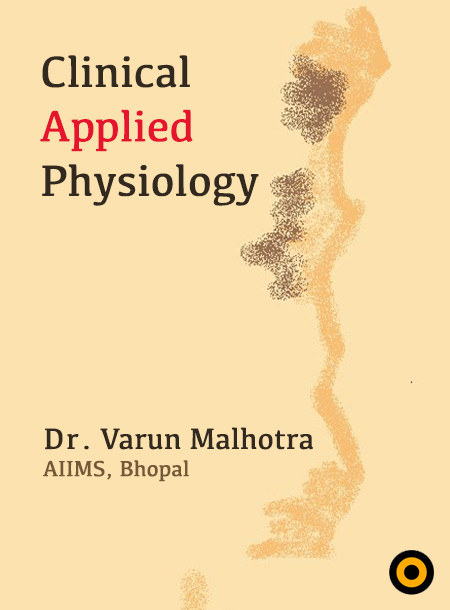
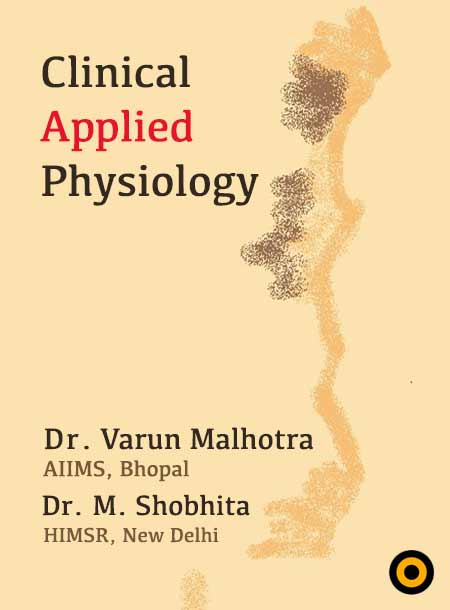
Credits, synopsis and cover fixes

diff --git a/manuscript/page-7/body.html b/manuscript/page-7/body.html
@@ -1,14 +1,11 @@
 <div class="leaf flex">
 				<div class="inner justify">
 								<h2>Dr. Varun Malhotra</h2>
-								<h3> Co-writers, Contributors & Editor</h3>
+									<p class="center">&</p>
+									<h2>Dr. M.Shobitha </h2>
+								<hr/>
+								<h3> Contributors & Editor</h3>
 								<ul>
-												<li>
-																<p>
-																				<div> <strong>Dr. M.Shobitha </strong></div>
-																				<div class="small">Head of Dept., HIMSR, New Delhi, India </div>
-																</p>
-												</li>
 												<li>
 																<p>
 																				<div> <strong>Dr. Monica Malhotra</strong></div>
@@ -17,8 +14,8 @@
 												</li>
 												<li>
 																<p>
-																				<div> <strong>Renu Arora </strong></div>
-																				<div class="small">Artist, Pen & Pencil</div>
+																				<div> <strong>Renu Arora & Soham Malhotra </strong></div>
+																				<div class="small">Artists, Pen & Pencil</div>
 																</p>
 												</li>
 												<li>

diff --git a/cover/synopsis.md b/cover/synopsis.md
@@ -1,0 +1,1 @@
+synopsis.md
